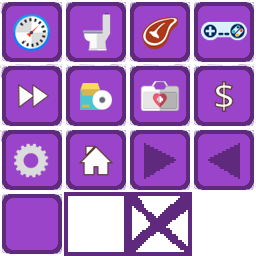
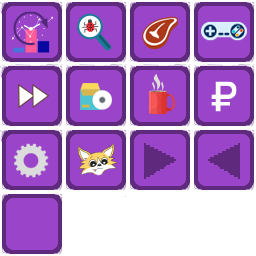
обновил графику, поправил спрайт героя

diff --git a/src/scenes.ts b/src/scenes.ts
@@ -27,8 +27,13 @@ export class TamagochiLoadScene extends Phaser.Scene {
 			frameHeight: 128
 		};
 
+		const petObjectFrameSize = {
+			frameWidth: 256,
+			frameHeight: 256
+		};
+
 		this.load.image("background", "assets/art/background.png");
-		this.load.spritesheet(FrameSheets.PET, "assets/art/pet/petSheet.png", gameObjectFrameSize);
+		this.load.spritesheet(FrameSheets.PET, "assets/art/pet/petSheet.png", petObjectFrameSize);
 		this.load.spritesheet(FrameSheets.FOOD, "assets/art/items/foodSheet.png", gameObjectFrameSize);
 		this.load.spritesheet(FrameSheets.PLAY, "assets/art/items/playSheet.png", gameObjectFrameSize);
 		this.load.spritesheet(FrameSheets.SAVE, "assets/art/items/saveSheet.png", gameObjectFrameSize);
@@ -69,7 +74,7 @@ export class TamagochiMainScene extends UIScene {
 
 		this.petSprite = this.add.sprite(camera.centerX, camera.centerY, FrameSheets.PET);
 		this.petSprite.setOrigin(0.5);
-		this.petSprite.setScale(2);
+		this.petSprite.setScale(0.9);
 		this.petSprite.play(this.pet.mood);
 
 		this.counter = this.add.bitmapText(75, camera.centerY - 200, "pixel", "tickCounter", 32);
@@ -155,7 +160,7 @@ export class TamagochiMainScene extends UIScene {
 		});
 		this.anims.create({
 			key: MoodKeys.DEAD,
-			frames: this.anims.generateFrameNumbers(FrameSheets.PET, { start: 4, end: 5 }),
+			frames: this.anims.generateFrameNumbers(FrameSheets.PET, { start: 8, end: 9 }),
 			frameRate: 2,
 			repeat: -1
 		});
@@ -167,7 +172,7 @@ export class TamagochiMainScene extends UIScene {
 		});
 		this.anims.create({
 			key: MoodKeys.ANGRY,
-			frames: this.anims.generateFrameNumbers(FrameSheets.PET, { start: 8, end: 9 }),
+			frames: this.anims.generateFrameNumbers(FrameSheets.PET, { start: 4, end: 5 }),
 			frameRate: 2,
 			repeat: -1
 		});
